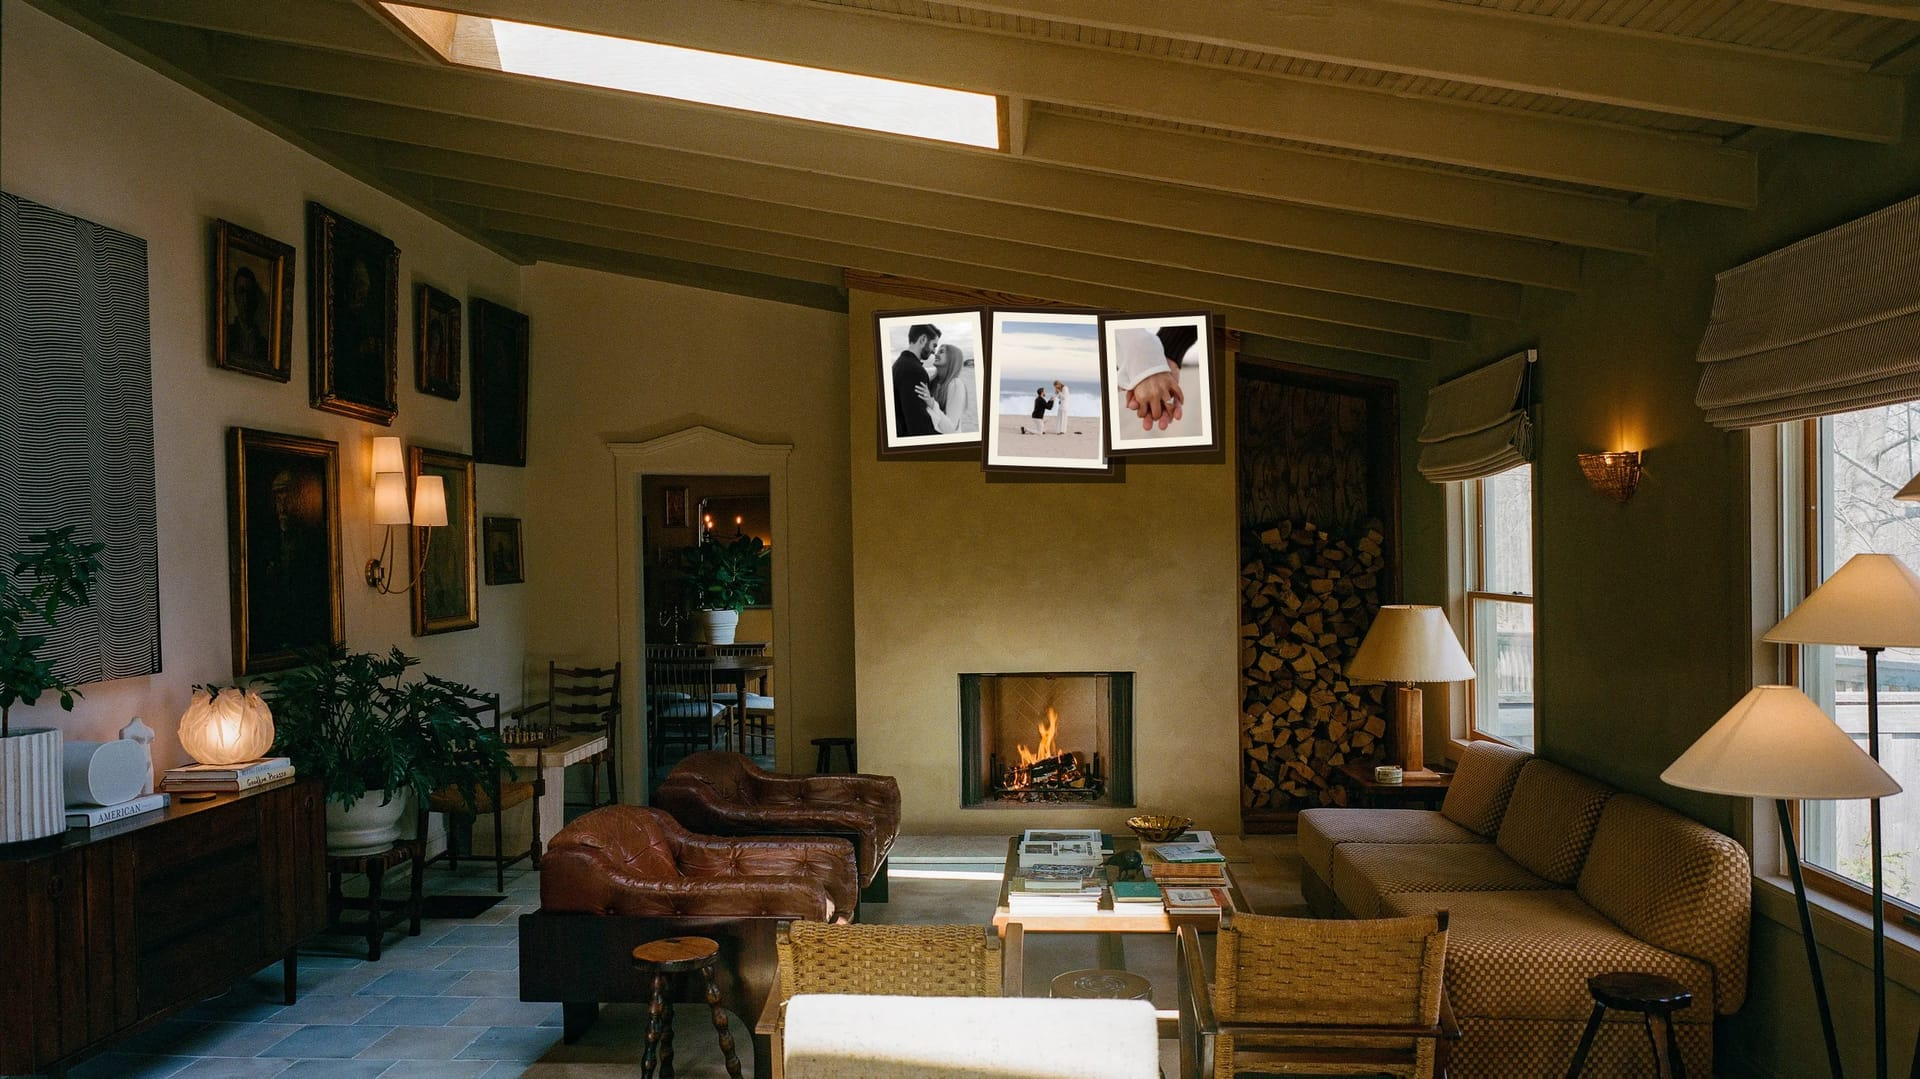
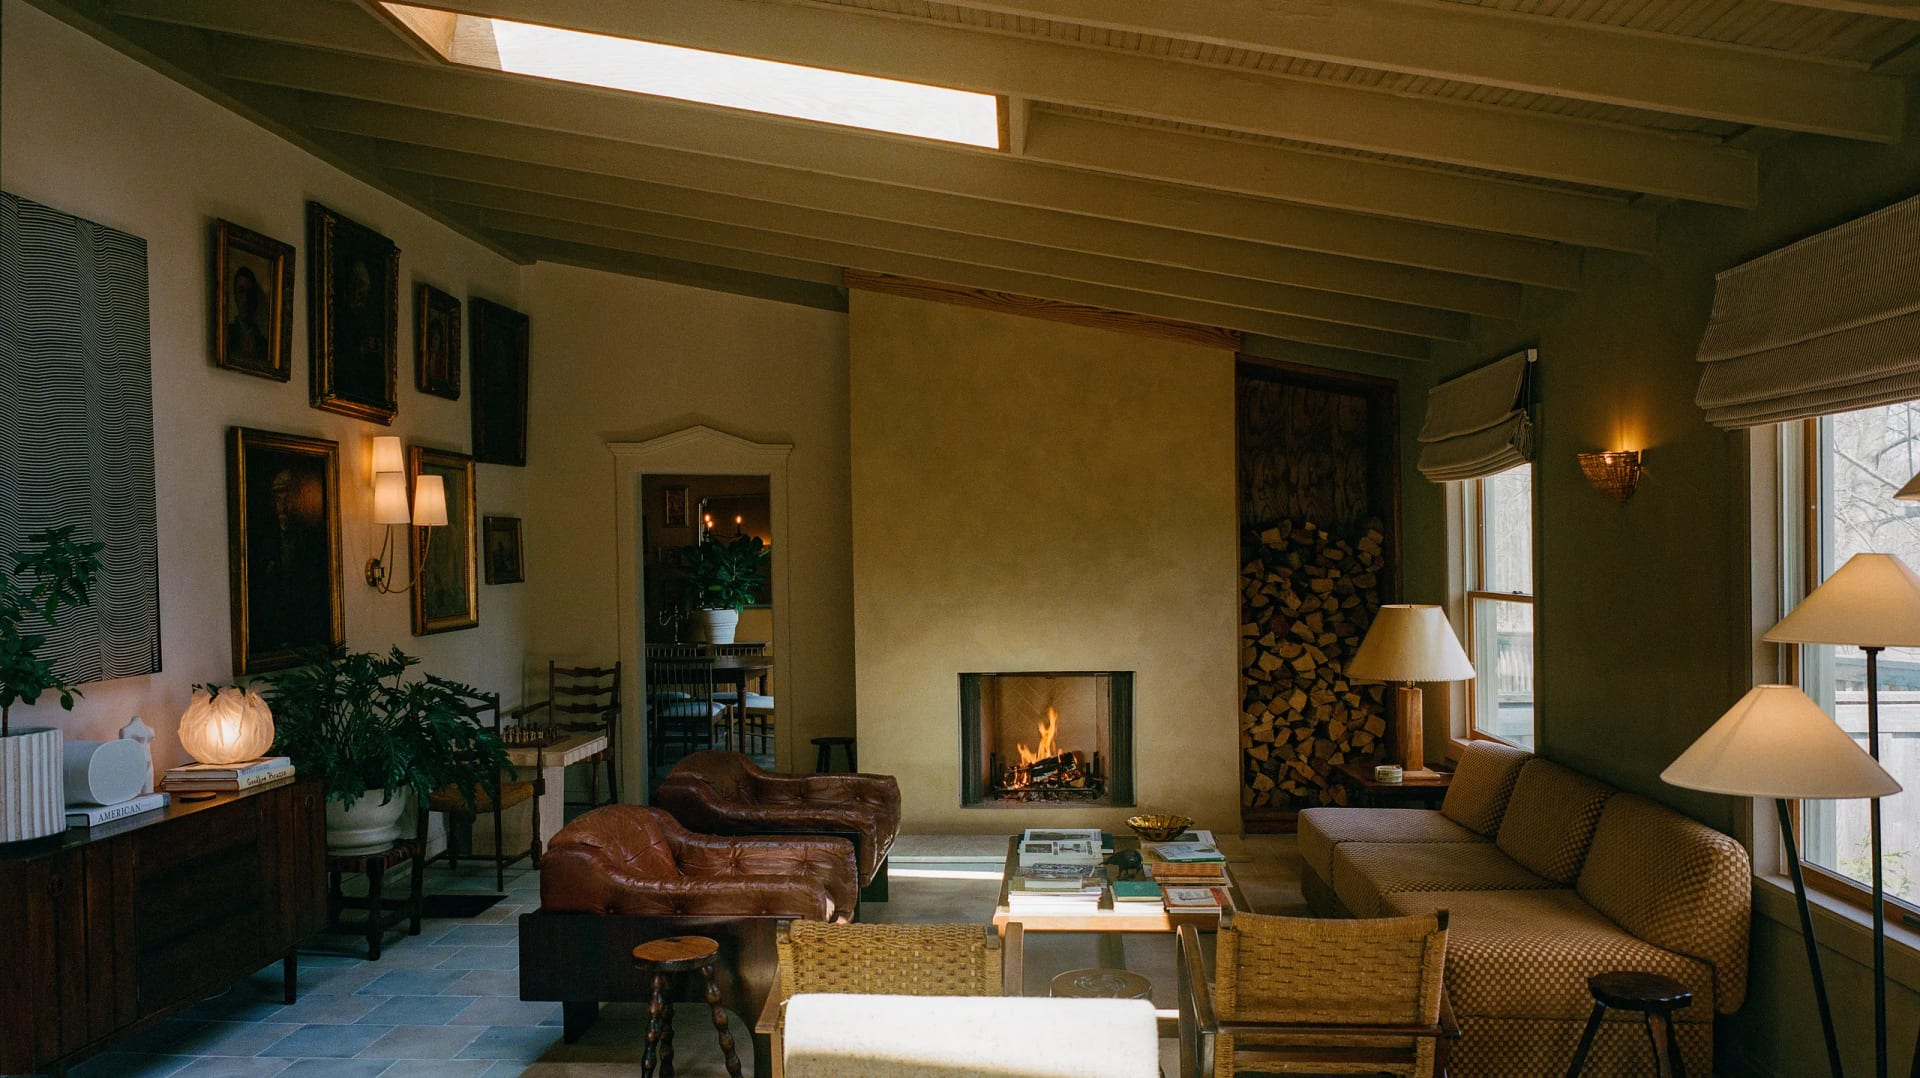
Remove framed photos from hero, show full fireplace photo on desktop
Desktop now displays the venue photo uncropped at its native landscape
ratio instead of a cover-cropped slice; mobile keeps a cropped portrait
framing since letterboxing a landscape photo on narrow screens wastes
space.

Changed region(s): [[0.4375, 0.2755, 0.6562, 0.4592]]

diff --git a/index.html b/index.html
@@ -73,19 +73,29 @@
   .hero{
     position:relative;
     min-height:100vh;
-    display:flex; flex-direction:column; align-items:center; justify-content:flex-end;
+    display:flex; flex-direction:column; align-items:center; justify-content:center;
     text-align:center;
     padding:6rem 1.5rem 4rem;
     overflow:hidden;
     background:
-      url('images/hero-fireplace.jpg') no-repeat 55% 20% / cover,
+      url('images/hero-fireplace.jpg') no-repeat center 30% / cover,
       var(--wood);
+  }
+  /* show the venue photo uncropped, full landscape, once there's room for it */
+  @media (min-width:900px){
+    .hero{
+      min-height:0;
+      height:56.2vw;
+      max-height:100vh;
+      background-position:center center;
+    }
   }
   .hero-overlay{
     position:absolute; inset:0;
     z-index:1;
     background:
-      linear-gradient(180deg, rgba(20,18,10,0.15) 0%, rgba(20,18,10,0.08) 32%, rgba(30,32,20,0.5) 58%, rgba(20,20,12,0.88) 100%);
+      radial-gradient(ellipse at 50% 50%, rgba(38,44,28,0.45) 0%, rgba(30,32,20,0.7) 70%),
+      rgba(20,18,10,0.2);
   }
   .hero-content{
     position:relative;
